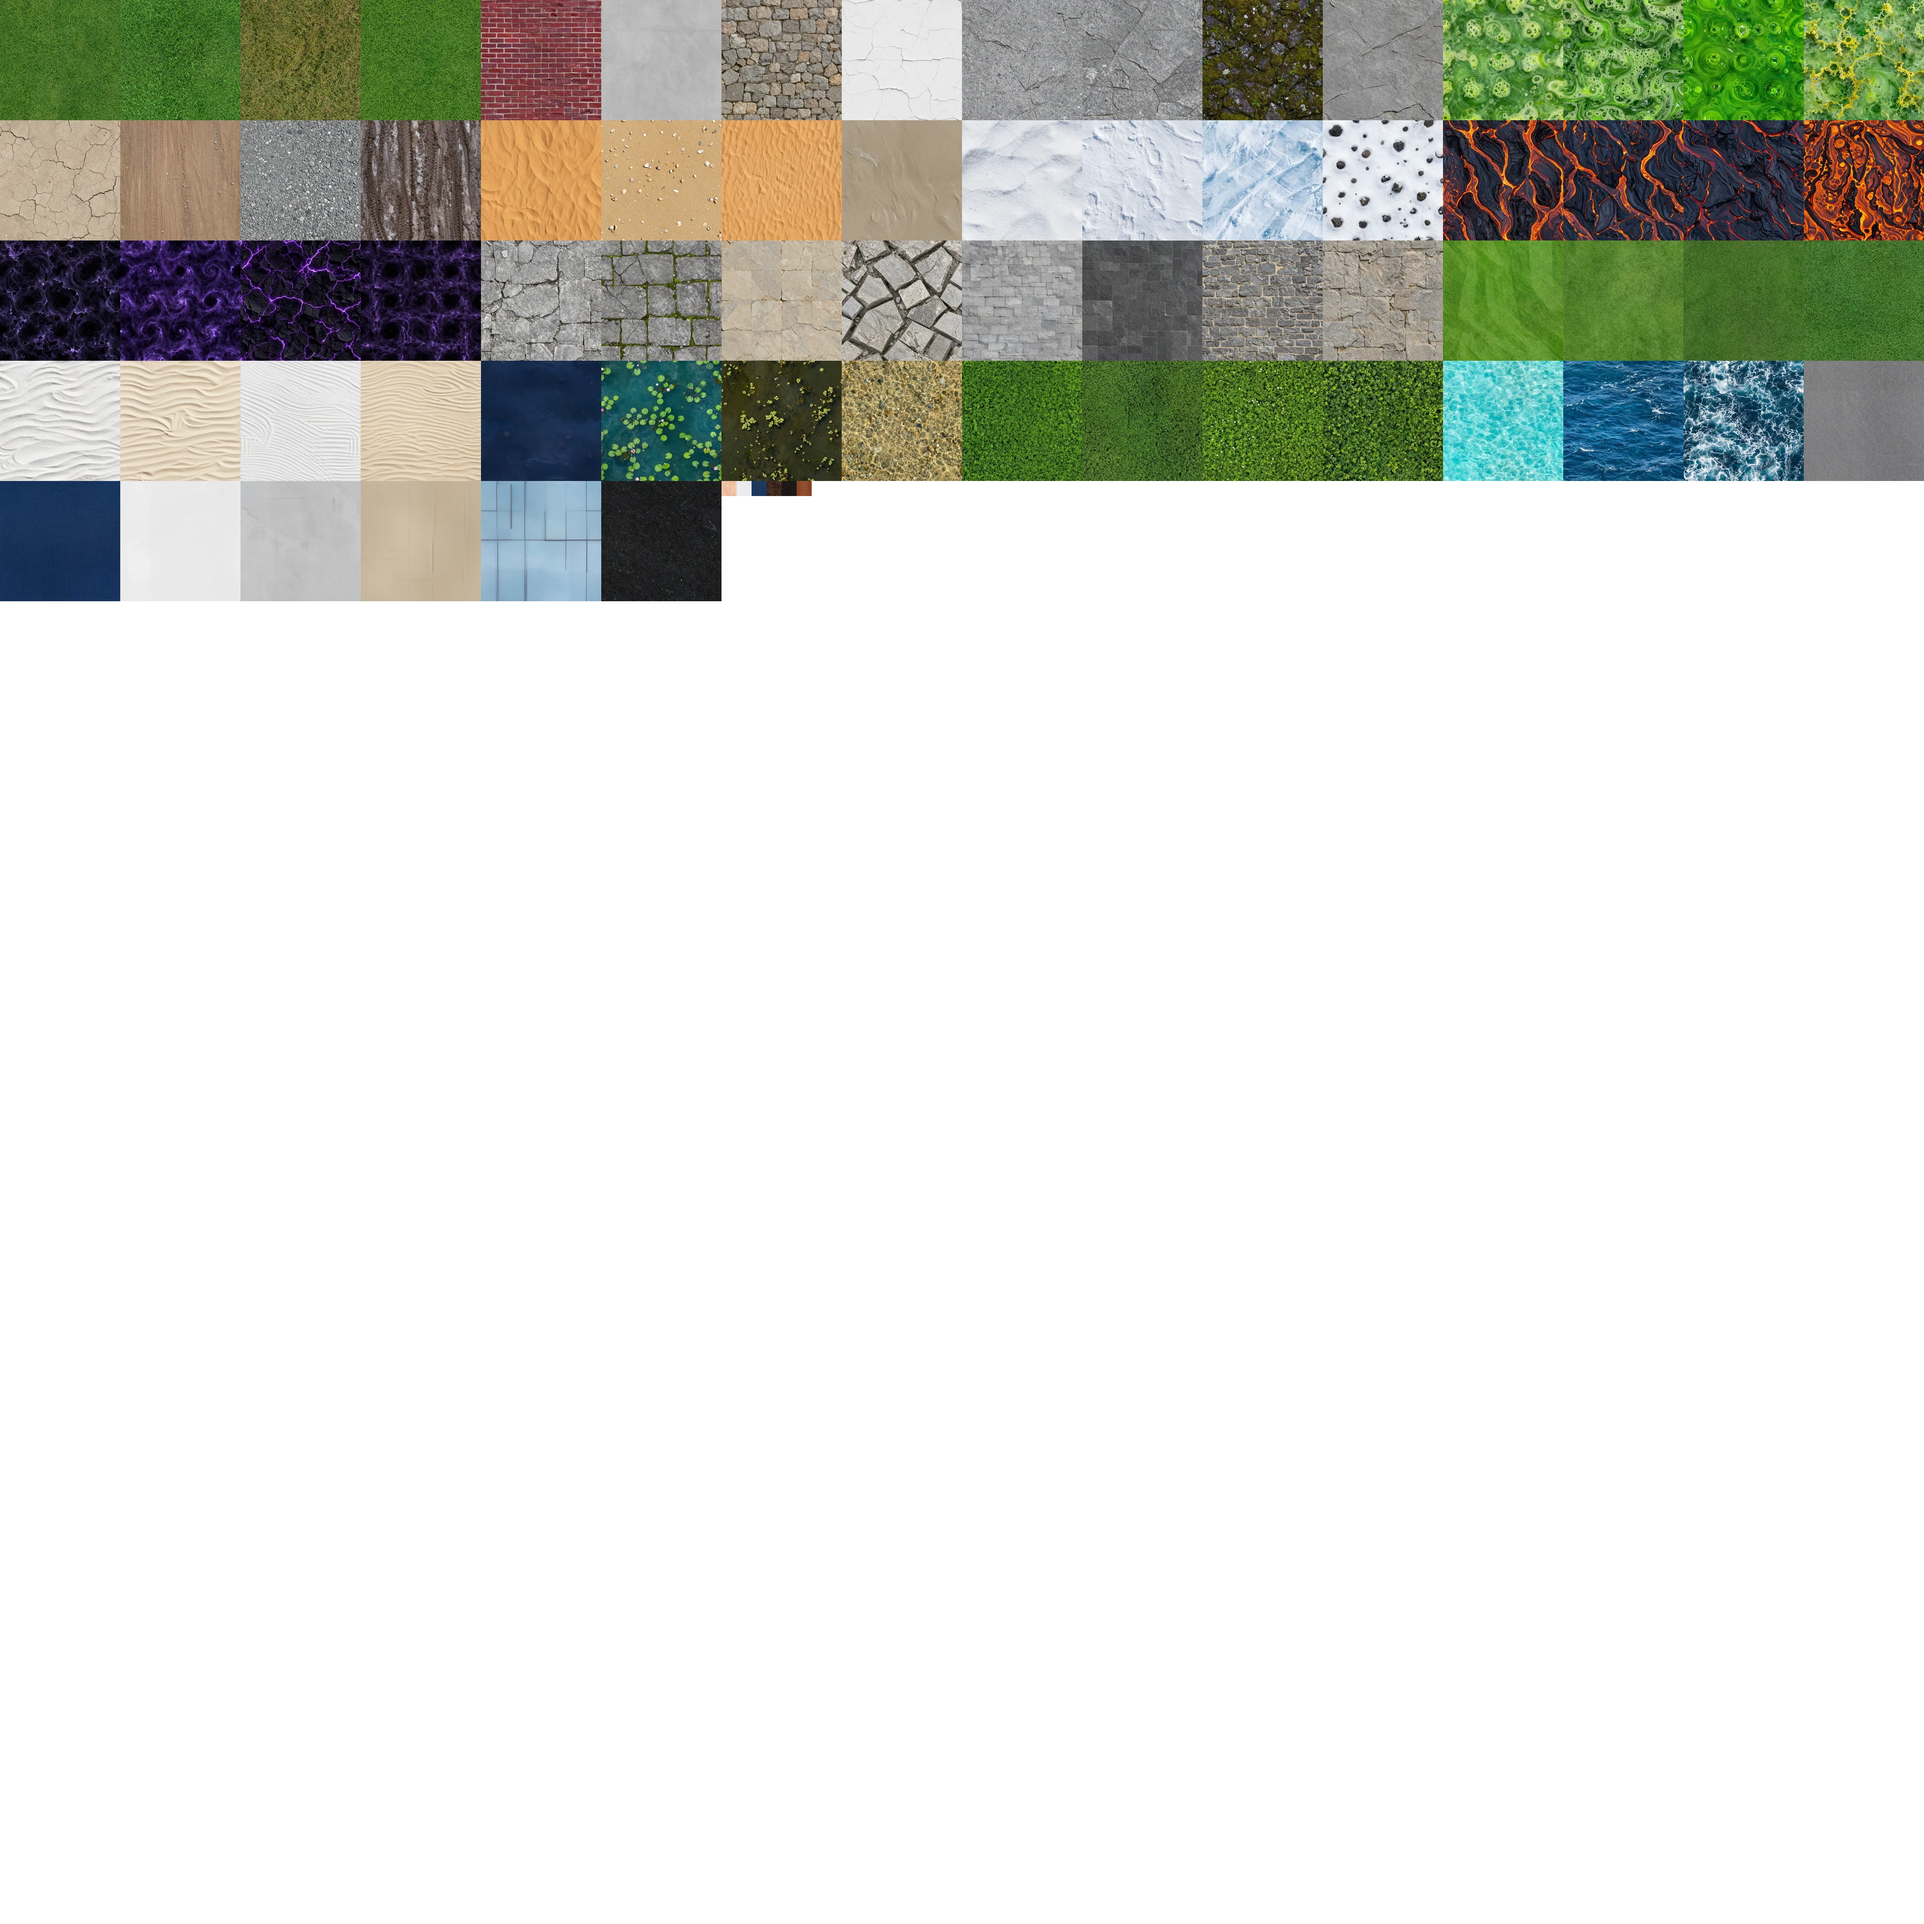
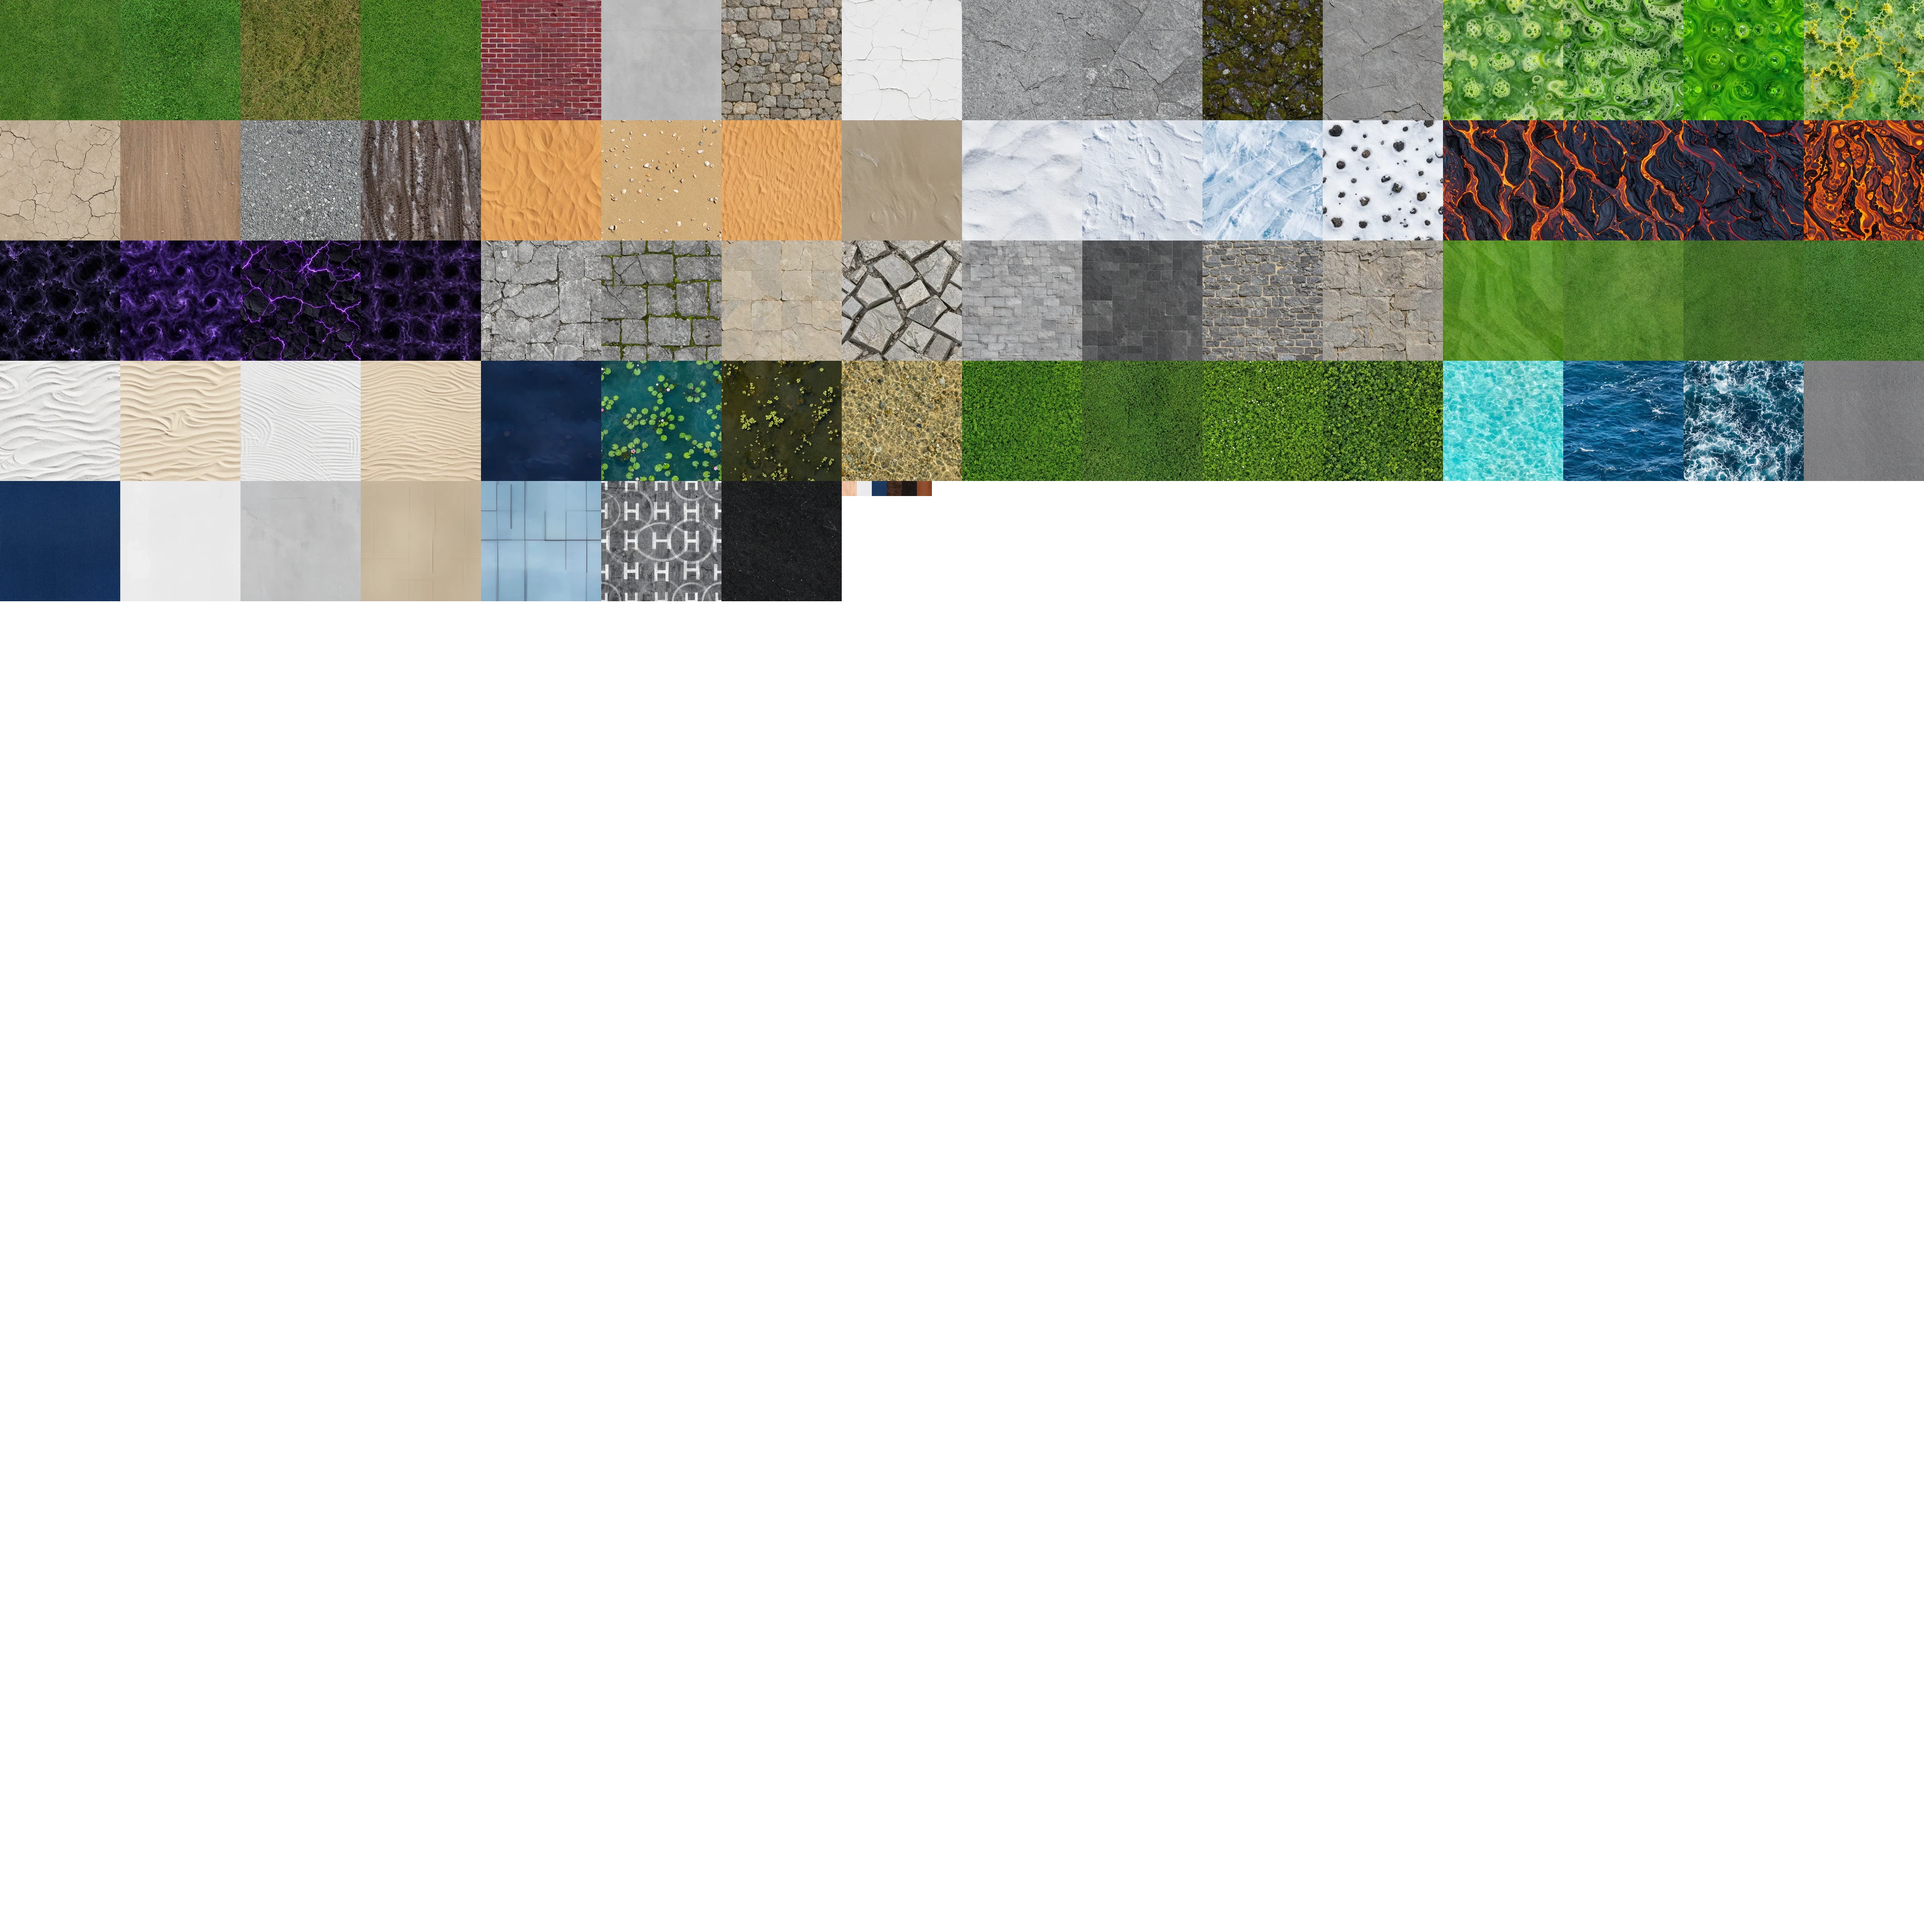
feat: AI helipad texture + AI helicopter sprite
- Generated office_helipad tile (dark asphalt with H marker, safety rings)
- Generated helicopter_top sprite (top-down green/yellow helicopter)
- Added keys to AI_OFFICE_TEXTURES, AI_FURNITURE_KEYS, pack-ai-atlas.ts
- drawHelipad() now uses AI texture for pad surface, keeps procedural 3D structures
- drawHelicopter() now uses AI sprite for body, keeps procedural spinning rotor
- Both fall back to procedural if AI textures not loaded
- Bumped atlas cache buster to v261

Changed region(s): [[0.3125, 0.25, 0.5, 0.3125]]

diff --git a/client/src/game/scene.ts b/client/src/game/scene.ts
@@ -4020,88 +4020,84 @@ export class OfficeScene extends Phaser.Scene {
     padPoly(0.99, 3);
     g.fillPath();
 
-    // Top asphalt surface
-    g.fillStyle(0x383840, 1);
-    padPoly(1, 0);
-    g.fillPath();
-
-    // Surface gradient — lighter near the front (closer to viewer)
-    g.fillStyle(0x44444e, 0.5);
-    padPoly(0.7, padRY * 0.3);
-    g.fillPath();
-
-    // Texture speckles
-    g.fillStyle(0x4c4c56, 0.3);
-    for (let i = 0; i < 45; i++) {
-      const a = Math.random() * Math.PI * 2;
-      const r = Math.random() * 0.82;
-      const p = padPoint(a, r, r);
-      g.fillRect(p.x, p.y, 2, 2);
-    }
-
-    // ── PAD MARKINGS (all follow the skewed ellipse) ──
-
-    // Outer safety ring — solid white, thick
-    g.lineStyle(3.5, 0xf0f0f0, 0.92);
-    const ringSegs = 48;
-    g.beginPath();
-    for (let i = 0; i <= ringSegs; i++) {
-      const p = padPoint((i / ringSegs) * Math.PI * 2, (padRX - 12) / padRX, (padRY - 8) / padRY);
-      if (i === 0) g.moveTo(p.x, p.y);
-      else g.lineTo(p.x, p.y);
-    }
-    g.closePath();
-    g.strokePath();
-
-    // Dashed inner ring
-    const dashCount = 32;
-    g.lineStyle(2.5, 0xf0f0f0, 0.6);
-    for (let i = 0; i < dashCount; i++) {
-      if (i % 2 !== 0) continue;
-      const a0 = (i / dashCount) * Math.PI * 2;
-      const a1 = ((i + 1) / dashCount) * Math.PI * 2;
-      const segs = 5;
+    // Top surface — AI helipad texture if available, else fallback to procedural
+    const helipadKey = AI_OFFICE_TEXTURES.helipad;
+    if (this.textures.exists(helipadKey)) {
+      // Use AI texture — scaled to cover the pad area
+      const padW = padRX * 2;
+      const padH = padRY * 2;
+      const padImg = this.add.image(cx, padCY, helipadKey)
+        .setOrigin(0.5, 0.5)
+        .setDepth(-0.45)
+        .setDisplaySize(padW, padH);
+      // Skew the texture slightly to match the 3/4 perspective
+      padImg.setAngle(0);
+    } else {
+      // Fallback: procedural asphalt surface
+      g.fillStyle(0x383840, 1);
+      padPoly(1, 0);
+      g.fillPath();
+      g.fillStyle(0x44444e, 0.5);
+      padPoly(0.7, padRY * 0.3);
+      g.fillPath();
+      g.fillStyle(0x4c4c56, 0.3);
+      for (let i = 0; i < 45; i++) {
+        const a = Math.random() * Math.PI * 2;
+        const r = Math.random() * 0.82;
+        const p = padPoint(a, r, r);
+        g.fillRect(p.x, p.y, 2, 2);
+      }
+      // Safety rings + H marker
+      g.lineStyle(3.5, 0xf0f0f0, 0.92);
+      const ringSegs = 48;
       g.beginPath();
-      for (let s = 0; s <= segs; s++) {
-        const a = a0 + (a1 - a0) * (s / segs);
-        const p = padPoint(a, (padRX - 28) / padRX, (padRY - 12) / padRY);
-        if (s === 0) g.moveTo(p.x, p.y);
+      for (let i = 0; i <= ringSegs; i++) {
+        const p = padPoint((i / ringSegs) * Math.PI * 2, (padRX - 12) / padRX, (padRY - 8) / padRY);
+        if (i === 0) g.moveTo(p.x, p.y);
         else g.lineTo(p.x, p.y);
       }
+      g.closePath();
       g.strokePath();
+      const dashCount = 32;
+      g.lineStyle(2.5, 0xf0f0f0, 0.6);
+      for (let i = 0; i < dashCount; i++) {
+        if (i % 2 !== 0) continue;
+        const a0 = (i / dashCount) * Math.PI * 2;
+        const a1 = ((i + 1) / dashCount) * Math.PI * 2;
+        const segs = 5;
+        g.beginPath();
+        for (let s = 0; s <= segs; s++) {
+          const a = a0 + (a1 - a0) * (s / segs);
+          const p = padPoint(a, (padRX - 28) / padRX, (padRY - 12) / padRY);
+          if (s === 0) g.moveTo(p.x, p.y);
+          else g.lineTo(p.x, p.y);
+        }
+        g.strokePath();
+      }
+      const hW = 84, hH = 24, hT = 12, hSkew = 9;
+      g.fillStyle(0xf0f0f0, 1);
+      g.beginPath();
+      g.moveTo(cx - hW / 2 - hSkew, padCY - hH / 2);
+      g.lineTo(cx - hW / 2 + hT - hSkew, padCY - hH / 2);
+      g.lineTo(cx - hW / 2 + hT + hSkew, padCY + hH / 2);
+      g.lineTo(cx - hW / 2 + hSkew, padCY + hH / 2);
+      g.closePath();
+      g.fillPath();
+      g.beginPath();
+      g.moveTo(cx + hW / 2 - hT - hSkew, padCY - hH / 2);
+      g.lineTo(cx + hW / 2 - hSkew, padCY - hH / 2);
+      g.lineTo(cx + hW / 2 + hSkew, padCY + hH / 2);
+      g.lineTo(cx + hW / 2 - hT + hSkew, padCY + hH / 2);
+      g.closePath();
+      g.fillPath();
+      g.beginPath();
+      g.moveTo(cx - hW / 2 - hSkew, padCY - hT / 2);
+      g.lineTo(cx + hW / 2 - hSkew, padCY - hT / 2);
+      g.lineTo(cx + hW / 2 + hSkew, padCY + hT / 2);
+      g.lineTo(cx - hW / 2 + hSkew, padCY + hT / 2);
+      g.closePath();
+      g.fillPath();
     }
-
-    // H marker — foreshortened and skewed to lie flat on the angled pad
-    const hW = 84;
-    const hH = 24;
-    const hT = 12;
-    // skew the H slightly to match the pad's diagonal
-    const hSkew = 9;
-    g.fillStyle(0xf0f0f0, 1);
-    // left leg (skewed)
-    g.beginPath();
-    g.moveTo(cx - hW / 2 - hSkew, padCY - hH / 2);
-    g.lineTo(cx - hW / 2 + hT - hSkew, padCY - hH / 2);
-    g.lineTo(cx - hW / 2 + hT + hSkew, padCY + hH / 2);
-    g.lineTo(cx - hW / 2 + hSkew, padCY + hH / 2);
-    g.closePath();
-    g.fillPath();
-    // right leg (skewed)
-    g.beginPath();
-    g.moveTo(cx + hW / 2 - hT - hSkew, padCY - hH / 2);
-    g.lineTo(cx + hW / 2 - hSkew, padCY - hH / 2);
-    g.lineTo(cx + hW / 2 + hSkew, padCY + hH / 2);
-    g.lineTo(cx + hW / 2 - hT + hSkew, padCY + hH / 2);
-    g.closePath();
-    g.fillPath();
-    // crossbar (skewed parallelogram)
-    g.beginPath();
-    g.moveTo(cx - hW / 2 - hSkew, padCY - hT / 2);
-    g.lineTo(cx + hW / 2 - hSkew, padCY - hT / 2);
-    g.lineTo(cx + hW / 2 + hSkew, padCY + hT / 2);
-    g.lineTo(cx - hW / 2 + hSkew, padCY + hT / 2);
-    g.closePath();
-    g.fillPath();
 
     // ── CORNER APPROACH LIGHTS ── glowing yellow with halo
     for (const c of colAngles) {
@@ -4346,6 +4342,43 @@ export class OfficeScene extends Phaser.Scene {
    *  The rotor is a separate graphics positioned at (0, -30) so its
    *  rotation spins the blades in-place above the body. */
   private drawHelicopter(): Phaser.GameObjects.Container {
+    const heliKey = "ai-fur-helicopter_top";
+
+    if (this.textures.exists(heliKey)) {
+      // --- AI sprite version ---
+      // Shadow under the helicopter
+      const shadow = this.add.graphics();
+      shadow.fillStyle(0x000000, 0.2);
+      shadow.fillEllipse(0, 26, 90, 14);
+
+      // AI helicopter sprite — centered at origin
+      const bodyImg = this.add.image(0, 0, heliKey)
+        .setOrigin(0.5, 0.5)
+        .setDisplaySize(120, 120);
+
+      // --- rotor (top layer, positioned above body so rotation spins in-place) ---
+      const rotor = this.add.graphics();
+      rotor.setPosition(0, -30);
+      // rotor hub
+      rotor.fillStyle(0x555555, 1);
+      rotor.fillCircle(0, 0, 5);
+      // rotor blades — drawn centered at (0,0) so rotation spins them in place
+      rotor.lineStyle(4, 0x222222, 1);
+      rotor.beginPath();
+      rotor.moveTo(-48, 0);
+      rotor.lineTo(48, 0);
+      rotor.strokePath();
+      rotor.lineStyle(2, 0x333333, 0.6);
+      rotor.beginPath();
+      rotor.moveTo(-30, 0);
+      rotor.lineTo(30, 0);
+      rotor.strokePath();
+
+      this.heliRotor = rotor;
+      return this.add.container(0, 0, [shadow, bodyImg, rotor]);
+    }
+
+    // --- Fallback: procedural helicopter ---
     // --- landing skids (bottom layer) ---
     const skids = this.add.graphics();
     skids.fillStyle(0x000000, 0.2);

diff --git a/scripts/generate-ai-assets.ts b/scripts/generate-ai-assets.ts
@@ -237,6 +237,7 @@ const ASSETS: AssetDef[] = [
   tile("office_wall_2", "beige painted wall with subtle texture, faint wainscoting lines, office interior, top-down, tileable", 1107, 2),
   tile("office_wall_3", "single large glass window pane filling entire frame, blue tinted glass, subtle reflection, metal frame around edges only, top-down view, tileable, seamless", 1108, 2),
   tile("kitchen_counter", "granite countertop, black speckled, top-down", 1109, 2),
+  tile("office_helipad", "top-down helicopter landing pad, dark asphalt surface with large white H marker in center, white safety circle ring, yellow corner approach lights, weathered concrete, tileable", 1110, 2),
 
   // ------------------------------------------------------- Tier 3: Office furniture (Nano Banana 2 + Bria RMBG)
 
@@ -272,6 +273,7 @@ const ASSETS: AssetDef[] = [
   furniture("desk_monitor_black", "top-down view of a modern slim-bezel computer monitor seen from front, completely black powered-off screen, stand base and neck, realistic office equipment, game sprite, isolated on white background", 3030),
   furniture("desk_monitor_side_off", "side view of a thin computer monitor profile, dark screen edge, stand base and neck, power LED, realistic office equipment, game sprite, isolated on white background", 3031),
   furniture("desk_monitor_side_lit", "side view of a thin computer monitor profile with glowing blue screen edge, stand base and neck, power LED, realistic office equipment, game sprite, isolated on white background", 3032),
+  furniture("helicopter_top", "top-down view of a green and yellow helicopter seen from directly above, spinning rotor blades blurred as a disc, landing skids visible, cockpit windshield, tail boom extending to the right, realistic aircraft, game sprite, isolated on white background", 3033),
 
   // ------------------------------------------------------- Tier 4: World items & props (Nano Banana 2 + Bria RMBG)
 

diff --git a/scripts/pack-ai-atlas.ts b/scripts/pack-ai-atlas.ts
@@ -38,6 +38,7 @@ const TILE_KEYS = [
   "water_0", "water_1", "water_2",
   "office_floor_0", "office_floor_1",
   "office_wall_0", "office_wall_1", "office_wall_2", "office_wall_3",
+  "office_helipad",
   "kitchen_counter",
   "char_skin", "char_shirt_fabric", "char_pants_fabric",
   "char_hair_straight", "char_hair_curly", "char_leather",
@@ -54,6 +55,7 @@ const FURNITURE_KEYS = [
   "kitchen_counter_furniture", "kitchen_sink", "microwave",
   "sofa_left", "sofa_right", "large_plant", "toaster",
   "server_rack", "server_screen", "chimney",
+  "helicopter_top",
 ];
 
 const ITEM_KEYS = [

diff --git a/client/src/game/ai-tiles.ts b/client/src/game/ai-tiles.ts
@@ -32,6 +32,7 @@ export const AI_OFFICE_TEXTURES = {
   wallAgentHeights: "ai-office_wall_1",
   wallBeige: "ai-office_wall_2",
   wallBlue: "ai-office_wall_3",
+  helipad: "ai-office_helipad",
   kitchenCounter: "ai-kitchen_counter",
 } as const;
 
@@ -94,6 +95,7 @@ export const AI_FURNITURE_KEYS: string[] = [
   ...Object.values(AI_FURNITURE_CHAIRS),
   ...Object.values(AI_FURNITURE_MONITORS),
   ...Object.values(AI_FURNITURE_MONITORS_SIDE),
+  "helicopter_top",
 ].map((k) => k.replace(/^ai-fur-/, ""));
 
 /**

diff --git a/client/src/game/boot.ts b/client/src/game/boot.ts
@@ -57,7 +57,7 @@ export class BootScene extends Phaser.Scene {
     });
 
     // AI texture atlases (replaces 124+ individual requests with 4)
-    const atlasVer = "?v=260";
+    const atlasVer = "?v=261";
     this.load.image("ai-tiles-atlas", `assets/atlases/ai-tiles-atlas.webp${atlasVer}`);
     this.load.json("ai-tiles-atlas-meta", `assets/atlases/ai-tiles-atlas.json${atlasVer}`);
     this.load.image("ai-sprites-atlas", `assets/atlases/ai-sprites-atlas.webp${atlasVer}`);
